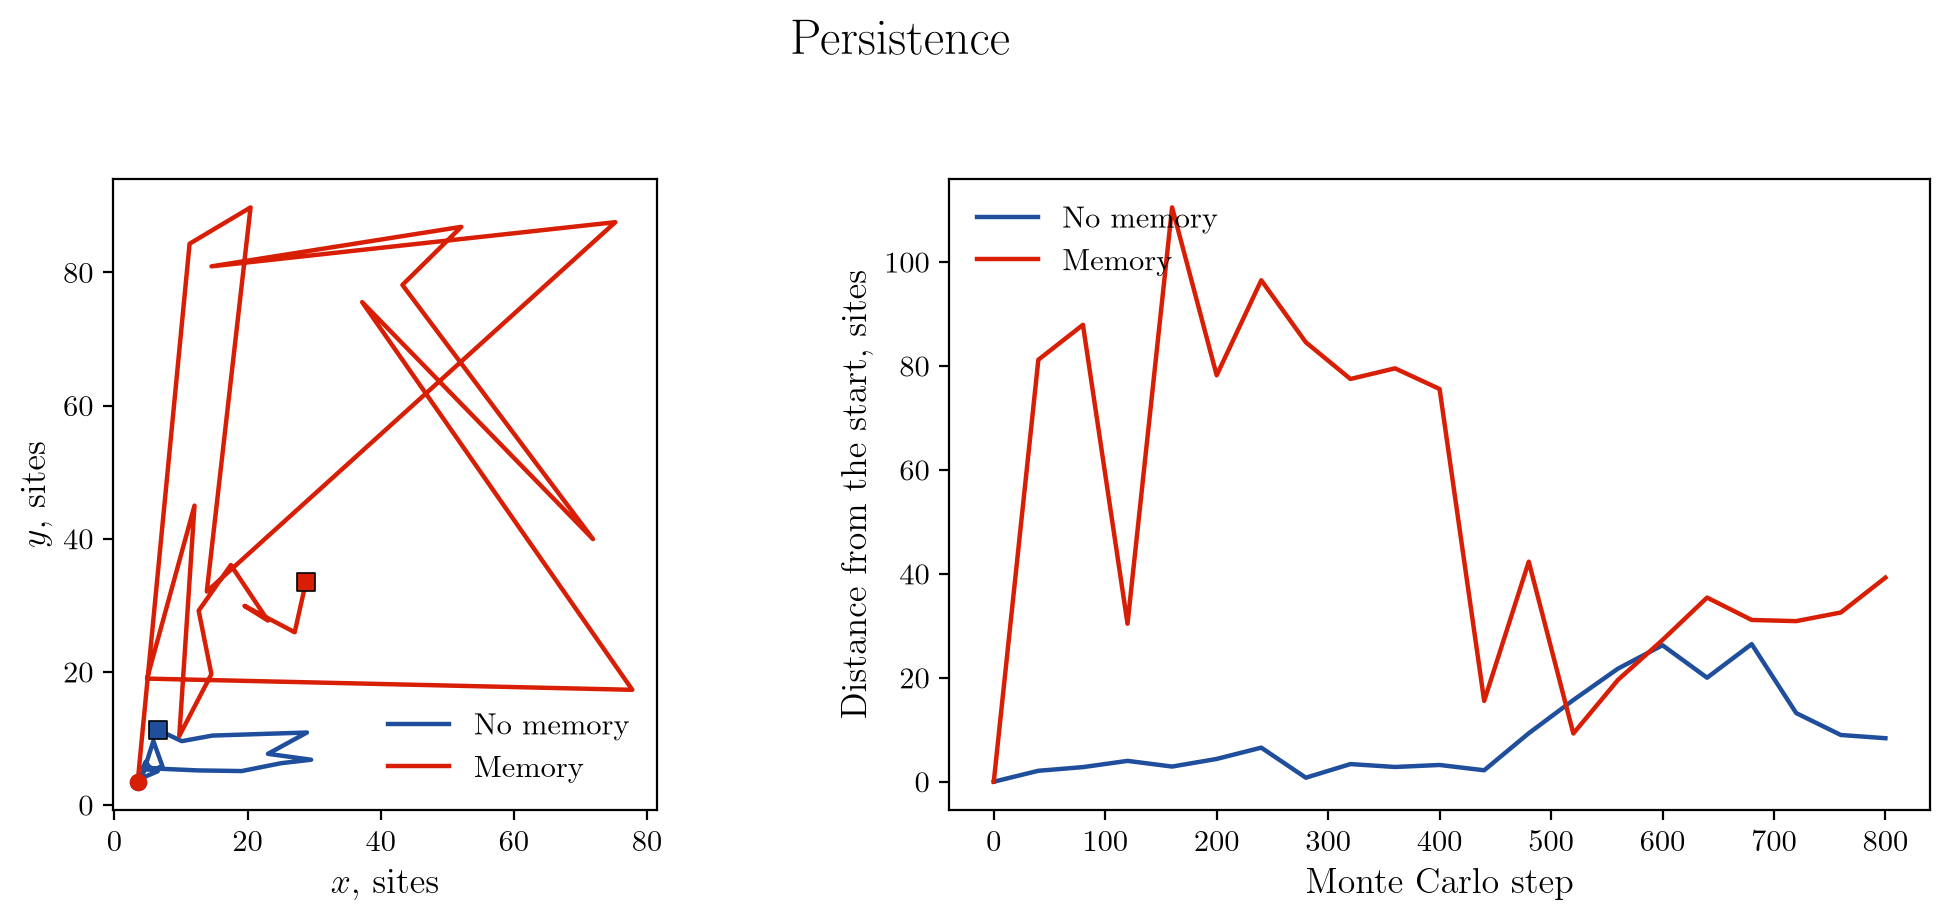
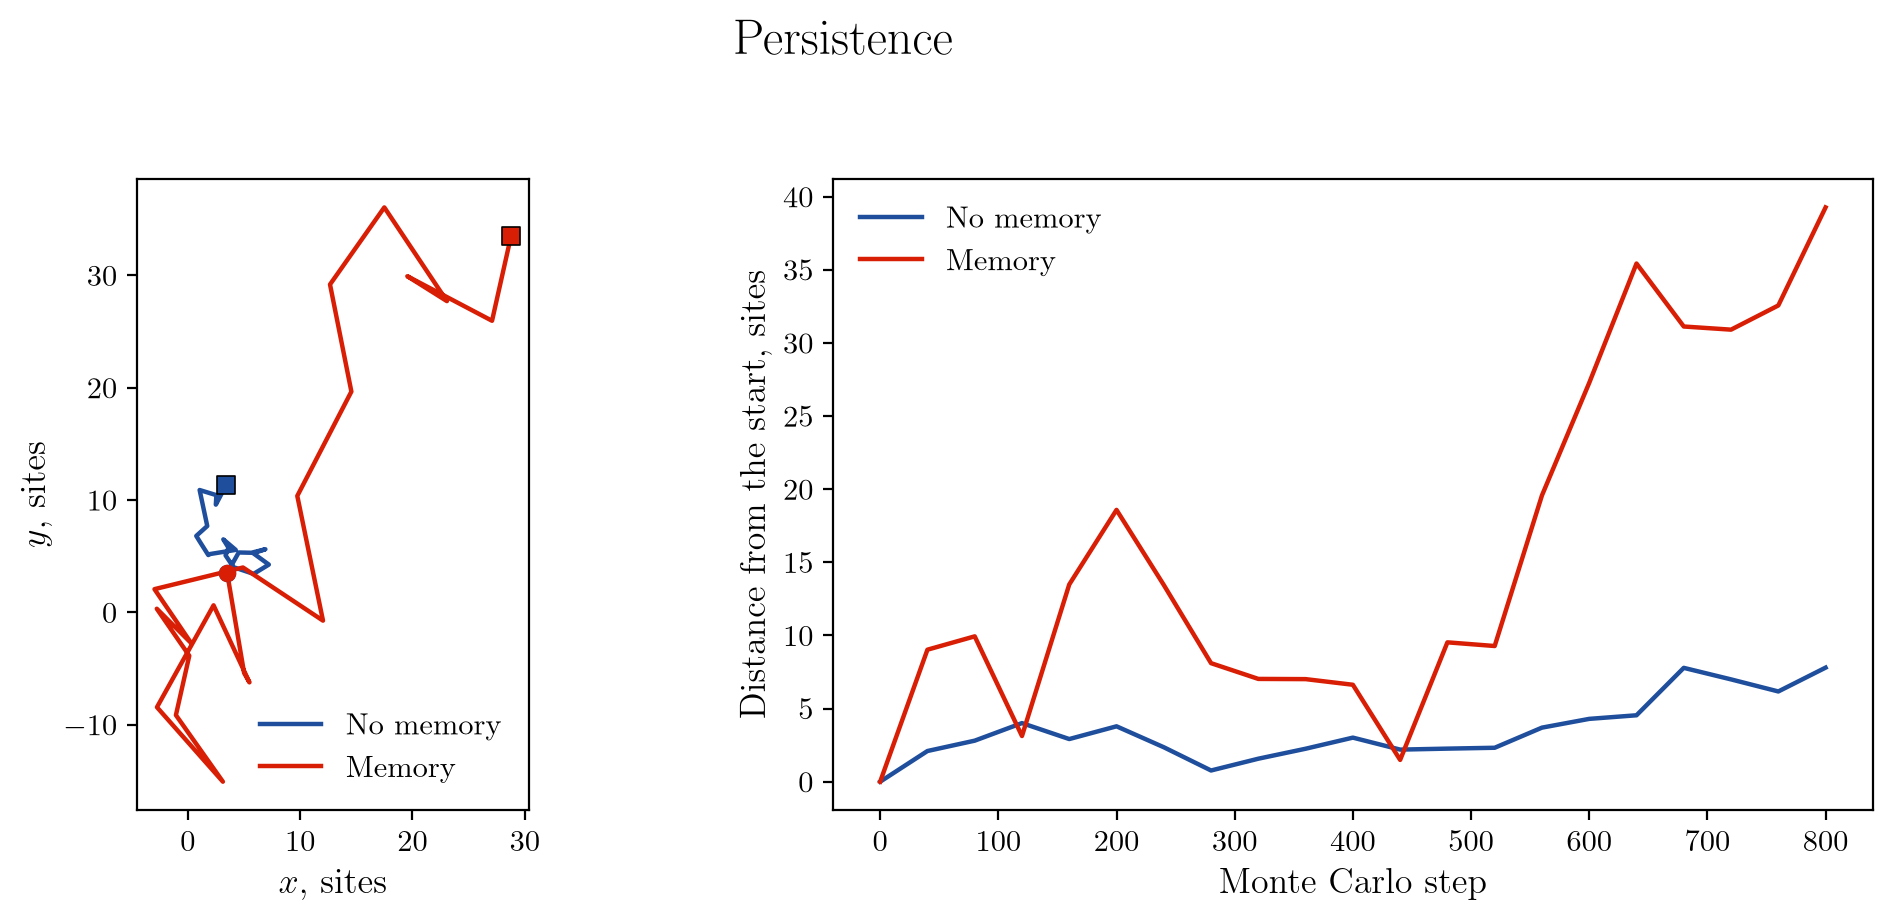
follow a cell across the seam
The motility figure computed a centroid as a plain mean, which puts a cell
sitting across the periodic edge in the middle of the lattice where none of it
is, and drew the track jumping back and forth. It now takes the circular mean
the engine itself uses and unwraps the track between points.

diff --git a/bench/figures.py b/bench/figures.py
@@ -233,6 +233,30 @@ def speed_figure(steps: int = 100) -> None:
     save(fig, FIGURES / "speed")
 
 
+def circular_mean(values: np.ndarray, span: int) -> float:
+    """A centroid a cell keeps when it straddles the periodic edge.
+
+    A plain mean puts a cell sitting across the seam in the middle of the
+    lattice, where none of it is. The mean of `exp(2 pi i x / span)` is
+    single-valued whatever the wrap, and its angle is the centroid.
+    """
+    angle = np.angle(np.exp(2j * np.pi * values / span).mean())
+    return float((angle / (2 * np.pi) * span) % span)
+
+
+def unwrap(path: np.ndarray, span: int) -> np.ndarray:
+    """Follow a track across the seam instead of jumping back over it."""
+    out = path.copy()
+    for index in range(1, len(out)):
+        for axis in range(2):
+            step = out[index, axis] - out[index - 1, axis]
+            if step > span / 2:
+                out[index:, axis] -= span
+            elif step < -span / 2:
+                out[index:, axis] += span
+    return out
+
+
 def motility_figure() -> None:
     """Where a cell goes when it remembers where it has been."""
     from glazier import _native
@@ -256,8 +280,8 @@ def motility_figure() -> None:
             labels, width, height, depth = _native.run(json.dumps(model), step)
             field = np.asarray(labels, dtype=np.uint32).reshape(depth, height, width)[0]
             ys, xs = np.nonzero(field)
-            path.append((xs.mean(), ys.mean()))
-        return np.array(path)
+            path.append((circular_mean(xs, width), circular_mean(ys, height)))
+        return unwrap(np.array(path), model["width"])
 
     steps = list(range(0, 801, 40))
     still = track(0.0, 0.0, steps)
